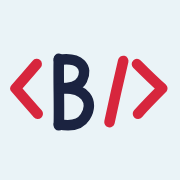
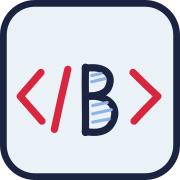
update

diff --git a/index.html b/index.html
@@ -7,9 +7,8 @@
   <title>Lloyd Bjelland – Developer Portfolio</title>
   <meta
     name="description"
-    content="Portfolio of Lloyd Bjelland, a frontend developer with a background in working with people, building
-       web apps that are simple to use for everyone. "
-    >
+    content="Portfolio of Lloyd Bjelland, a developer with a background in working with people, building web apps that are simple to use for everyone."
+  >
   <link rel="icon" href="assets/thumbnails/favicon.png" type="image/png">
   <link rel="apple-touch-icon" href="assets/thumbnails/apple-touch-icon.png">
   <link rel="preconnect" href="https://fonts.googleapis.com">
@@ -29,14 +28,16 @@
   <nav aria-label="Main">
     <a class="brand" href="#hero" aria-label="Lloyd Bjelland, back to top">
       <svg class="logo logo--small" viewBox="0 0 320 180" aria-hidden="true">
-        <path class="b-bracket" d="M58 40 C46 54 34 68 18 86 C32 102 44 116 60 134"/>
-        <g transform="translate(86 24)">
-          <path class="b-letter" d="M14 6 C13 46 15 92 14 132"/>
-          <path class="b-letter" d="M14 8 C54 2 70 22 58 46 C52 58 34 62 16 62"/>
-          <path class="b-letter" d="M16 62 C64 58 82 88 64 116 C54 132 34 134 14 130"/>
+        <g transform="translate(8 0)">
+          <path class="b-bracket" d="M58 40 C46 54 34 68 18 86 C32 102 44 116 60 134"/>
+          <path class="b-slash" d="M84 150 C92 112 100 76 110 34"/>
+          <g transform="translate(130 24)">
+            <path class="b-letter" d="M14 6 C13 46 15 92 14 132"/>
+            <path class="b-letter" d="M14 8 C54 2 70 22 58 46 C52 58 34 62 16 62"/>
+            <path class="b-letter" d="M16 62 C64 58 82 88 64 116 C54 132 34 134 14 130"/>
+          </g>
+          <path class="b-bracket" d="M236 40 C250 54 264 68 284 86 C268 102 254 116 238 134"/>
         </g>
-        <path class="b-slash" d="M196 150 C204 112 212 76 222 34"/>
-        <path class="b-bracket" d="M248 40 C262 54 276 68 296 86 C280 102 266 116 250 134"/>
       </svg>
       <span>Lloyd Bjelland</span>
     </a>
@@ -69,21 +70,23 @@
 
       <div class="hero-actions">
         <a class="button button--primary" href="#projects">See my projects</a>
-        <a class="button" href="assets/LloydEdwardBjellandCV.pdf" download>Download CV</a>
+        <a class="button" href="assets/Lloyd_Edward_Bjelland_CV.pdf" download>Download CV</a>
       </div>
     </div>
 
     <div class="hero-art">
-      <svg class="logo logo--hero" viewBox="0 0 320 180" role="img" aria-label="Lloyd's logo: a hand-drawn letter B written as a code tag">
-        <path class="b-bracket" d="M58 40 C46 54 34 68 18 86 C32 102 44 116 60 134"/>
-        <g transform="translate(86 24)">
-          <path class="b-letter" d="M14 6 C13 46 15 92 14 132"/>
-          <path class="b-letter" d="M14 8 C54 2 70 22 58 46 C52 58 34 62 16 62"/>
-          <path class="b-letter" d="M16 62 C64 58 82 88 64 116 C54 132 34 134 14 130"/>
-          <path class="b-shade" d="M26 22 L44 18 M26 34 L52 28 M28 80 L56 74 M28 96 L64 88 M28 112 L60 106"/>
+      <svg class="logo logo--hero" viewBox="0 0 320 180" role="img" aria-label="Lloyd's logo: a hand-drawn letter B written as a closing code tag">
+        <g transform="translate(8 0)">
+          <path class="b-bracket" d="M58 40 C46 54 34 68 18 86 C32 102 44 116 60 134"/>
+          <path class="b-slash" d="M84 150 C92 112 100 76 110 34"/>
+          <g transform="translate(130 24)">
+            <path class="b-letter" d="M14 6 C13 46 15 92 14 132"/>
+            <path class="b-letter" d="M14 8 C54 2 70 22 58 46 C52 58 34 62 16 62"/>
+            <path class="b-letter" d="M16 62 C64 58 82 88 64 116 C54 132 34 134 14 130"/>
+            <path class="b-shade" d="M26 22 L44 18 M26 34 L52 28 M28 80 L56 74 M28 96 L64 88 M28 112 L60 106"/>
+          </g>
+          <path class="b-bracket" d="M236 40 C250 54 264 68 284 86 C268 102 254 116 238 134"/>
         </g>
-        <path class="b-slash" d="M196 150 C204 112 212 76 222 34"/>
-        <path class="b-bracket" d="M248 40 C262 54 276 68 296 86 C280 102 266 116 250 134"/>
       </svg>
 
       <p class="sticker">Open to work</p>
@@ -127,7 +130,7 @@
         <li><strong>Based in</strong> Stavanger</li>
         <li><strong>Education</strong> Frontend Development, Noroff (two-year degree, December 2026)</li>
         <li><strong>Trade certificate</strong> Child and youth worker, 2023</li>
-        <li><strong>Off the screen</strong> Ice hockey, football, Disc golf</li>
+        <li><strong>Off the screen</strong> Ice hockey, football, disc golf</li>
       </ul>
     </div>
   </section>
